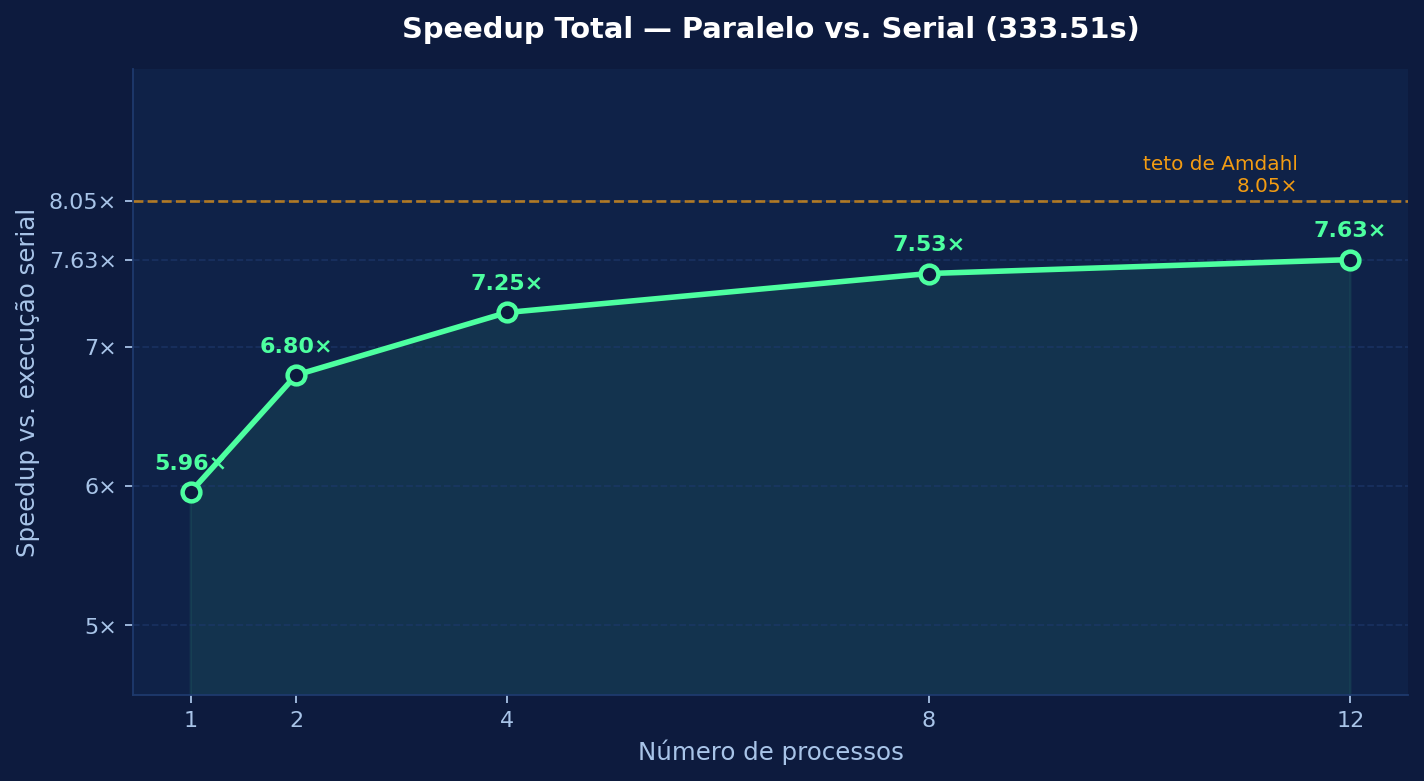
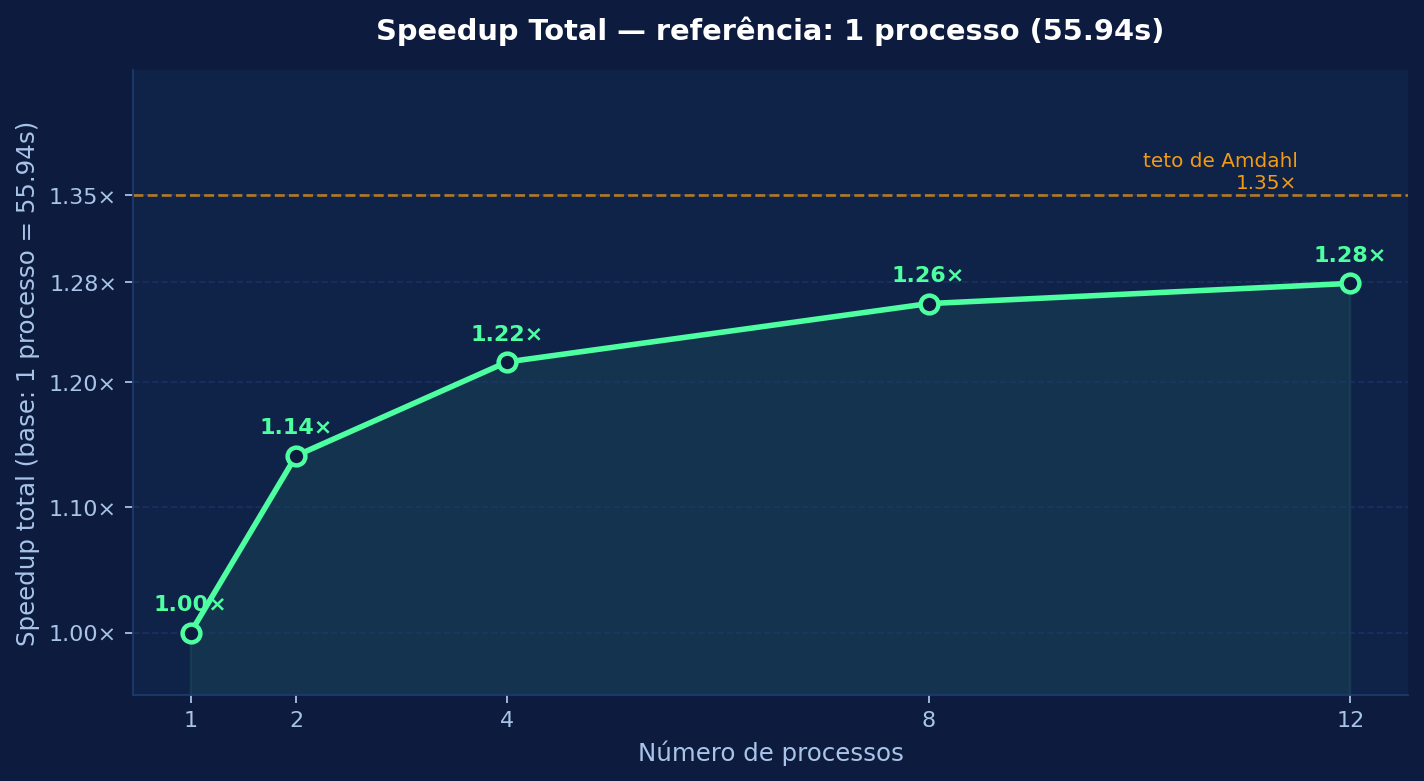
Mudança no readme e graficos

diff --git a/prints/gerar_graficos.py b/prints/gerar_graficos.py
@@ -12,16 +12,14 @@ import numpy as np
 OUT = "."
 
 # ── Dados ─────────────────────────────────────────────────────────────────────
-processos   = [1, 2, 4, 8, 12]
-tempo_proc  = [14.53, 7.60, 4.58, 2.87, 2.31]
-tempo_total = [55.94, 49.01, 45.99, 44.29, 43.73]
-speedup_tot = [5.96, 6.80, 7.25, 7.53, 7.63]
-speedup_proc= [1.00, 1.91, 3.17, 5.06, 6.29]
-eficiencia  = [100, 96, 79, 63, 52]
+processos    = [1, 2, 4, 8, 12]
+tempo_proc   = [14.53, 7.60, 4.58, 2.87, 2.31]
+tempo_total  = [55.94, 49.01, 45.99, 44.29, 43.73]
+speedup_tot  = [1.00, 55.94/49.01, 55.94/45.99, 55.94/44.29, 55.94/43.73]
+speedup_proc = [1.00, 1.91, 3.17, 5.06, 6.29]
+eficiencia   = [100, 96, 79, 63, 52]
 
-SERIAL_TOTAL = 333.51
-SERIAL_PROC  = 198.17
-PRESCAN      = 41.41
+PRESCAN = 41.41
 
 DARK  = "#0D1B3E"
 MINT  = "#4DFFA0"
@@ -57,8 +55,9 @@ plt.rcParams.update(STYLE)
 fig, ax = plt.subplots(figsize=(9, 5))
 ax.plot(processos, speedup_tot, color=MINT, marker="o", linewidth=2.5,
         markersize=8, markerfacecolor=DARK, markeredgewidth=2, zorder=3)
-ax.axhline(8.05, color=YEL, linewidth=1.2, linestyle="--", alpha=0.7)
-ax.text(11.5, 8.12, "teto de Amdahl\n8.05×", color=YEL, fontsize=9, ha="right")
+# Teto de Amdahl: T_1proc / T_prescan = 55.94 / 41.41 = 1.35×
+ax.axhline(1.35, color=YEL, linewidth=1.2, linestyle="--", alpha=0.7)
+ax.text(11.5, 1.355, "teto de Amdahl\n1.35×", color=YEL, fontsize=9, ha="right")
 
 for x, y in zip(processos, speedup_tot):
     ax.annotate(f"{y:.2f}×", (x, y), textcoords="offset points",
@@ -67,12 +66,13 @@ for x, y in zip(processos, speedup_tot):
 
 ax.fill_between(processos, speedup_tot, alpha=0.08, color=MINT)
 ax.set_xlabel("Número de processos", fontsize=11)
-ax.set_ylabel("Speedup vs. execução serial", fontsize=11)
-ax.set_title("Speedup Total — Paralelo vs. Serial (333.51s)", fontsize=13, fontweight="bold", pad=14)
+ax.set_ylabel("Speedup total (base: 1 processo = 55.94s)", fontsize=11)
+ax.set_title("Speedup Total — referência: 1 processo (55.94s)", fontsize=13, fontweight="bold", pad=14)
 ax.set_xticks(processos)
-ax.set_yticks([1, 2, 3, 4, 5, 6, 7, 7.63, 8.05])
-ax.set_yticklabels(["1×", "2×", "3×", "4×", "5×", "6×", "7×", "7.63×", "8.05×"])
-ax.set_ylim(4.5, 9.0)
+ticks = [1.00, 1.10, 1.20, 1.28, 1.35]
+ax.set_yticks(ticks)
+ax.set_yticklabels([f"{t:.2f}×" for t in ticks])
+ax.set_ylim(0.95, 1.45)
 ax.grid(True, axis="y")
 ax.spines[["top", "right"]].set_visible(False)
 fig.tight_layout()
@@ -145,28 +145,28 @@ print("eficiencia.png ✓")
 # ─────────────────────────────────────────────────────────────────────────────
 fig, ax = plt.subplots(figsize=(9, 5))
 
-configs  = ["Serial", "1 proc", "2 proc", "4 proc", "8 proc", "12 proc"]
-prescan  = [135.12,   41.41,  41.41,  41.41,  41.41,  41.41]
-proc_t   = [198.17,   14.53,   7.60,   4.58,   2.87,   2.31]
+configs  = ["1 proc\n(ref)", "2 proc", "4 proc", "8 proc", "12 proc"]
+prescan  = [41.41,  41.41,  41.41,  41.41,  41.41]
+proc_t   = [14.53,   7.60,   4.58,   2.87,   2.31]
 x = np.arange(len(configs))
 w = 0.5
 
-b1 = ax.bar(x, prescan, w, label="Leitura / Pré-scan", color=BLUE, zorder=3)
+b1 = ax.bar(x, prescan, w, label="Pré-scan (fixo)", color=BLUE, zorder=3)
 b2 = ax.bar(x, proc_t,  w, bottom=prescan, label="Processamento paralelo", color=MINT, zorder=3)
 
 # Total labels on top
 for xi, ps, pt in zip(x, prescan, proc_t):
     total = ps + pt
-    ax.text(xi, total + 4, f"{total:.1f}s", ha="center", va="bottom",
-            fontsize=9, color=WHITE, fontweight="bold")
+    ax.text(xi, total + 0.8, f"{total:.1f}s", ha="center", va="bottom",
+            fontsize=10, color=WHITE, fontweight="bold")
 
 ax.set_xticks(x)
 ax.set_xticklabels(configs)
 ax.set_ylabel("Tempo (s)", fontsize=11)
-ax.set_title("Composição do Tempo Total por Configuração\n(leitura/pré-scan + processamento)", fontsize=12, fontweight="bold", pad=12)
+ax.set_title("Composição do Tempo Total por Configuração\n(pré-scan fixo + processamento paralelo)", fontsize=12, fontweight="bold", pad=12)
 ax.legend(loc="upper right", fontsize=10, facecolor="#0F2248",
           edgecolor="#1E3A6E", labelcolor=WHITE)
-ax.set_ylim(0, 390)
+ax.set_ylim(0, 68)
 ax.grid(True, axis="y")
 ax.spines[["top", "right"]].set_visible(False)
 fig.tight_layout()